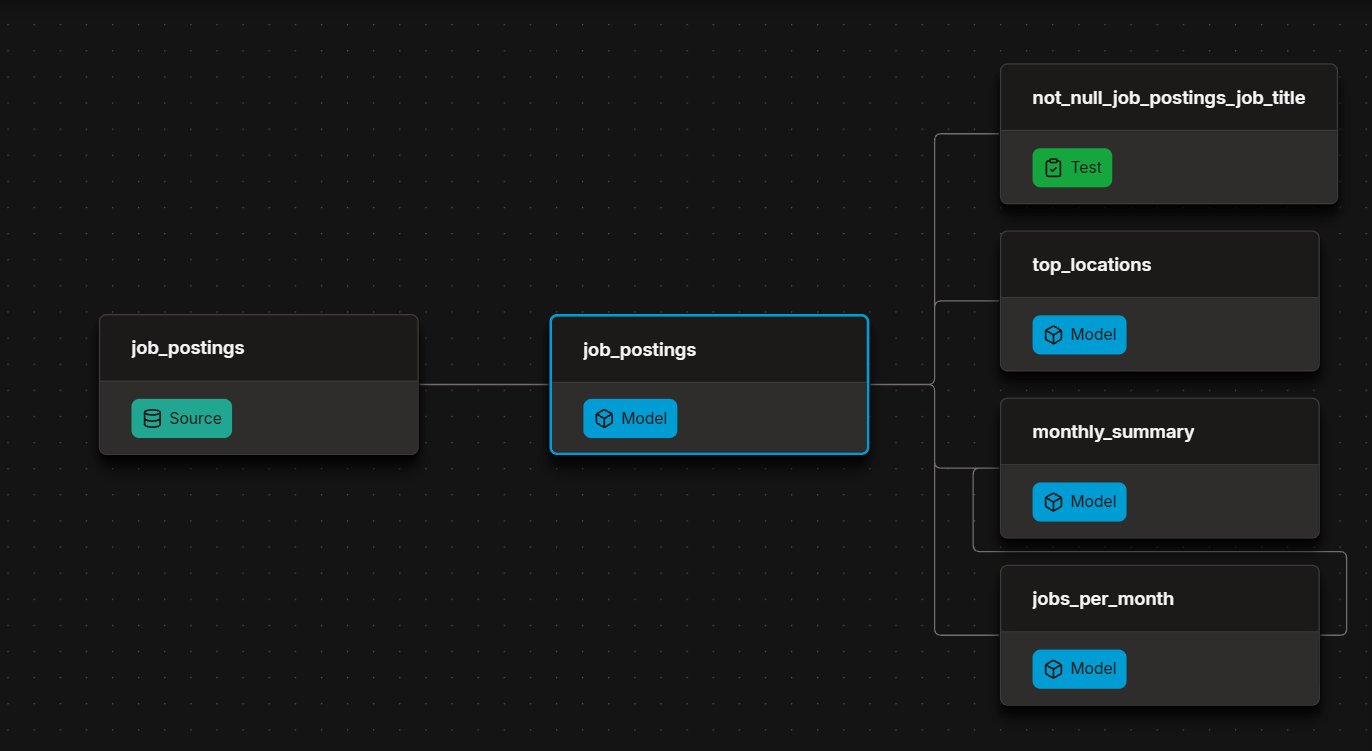
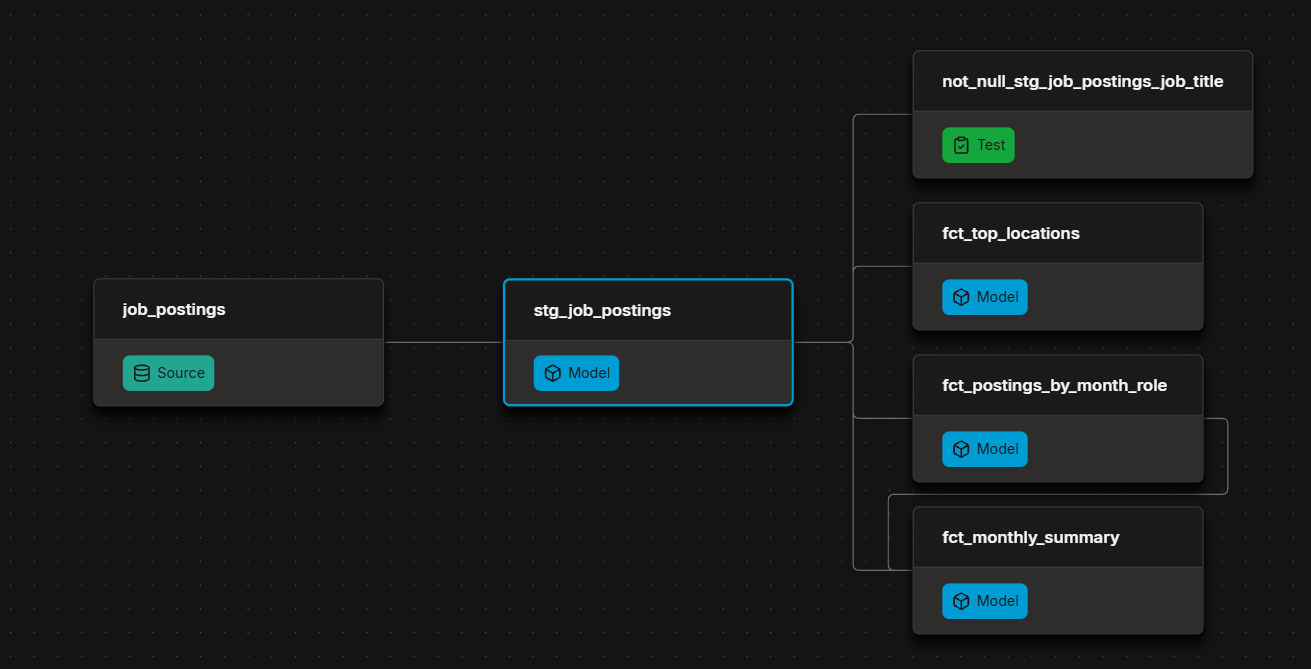
padronização do README e da imagem do pipeline

diff --git a/README.md b/README.md
@@ -1,5 +1,6 @@
 # Automated Job Posting Pipeline (v1) - dbt + DuckDB
 
+[![dbt build & publish](https://github.com/Jones51/dbt-duckdb-pipeline/actions/workflows/dbt_build.yml/badge.svg?branch=master)](https://github.com/Jones51/dbt-duckdb-pipeline/actions/workflows/dbt_build.yml)
 
 ![dbt pipeline diagram](img/dbt_pipeline.png)
 
@@ -13,8 +14,8 @@ A public dbt + DuckDB pipeline over ~692k real job postings, rebuilt and republi
 
 | What I Built | How I Implemented | Where to Look |
 | --- | --- | --- |
-| **dbt pipeline** | sources → cleaned model → insight marts | [`analytics/models/`](analytics/models/) |
-| **Data tests** | `unique` / `not_null` on every mart grain | [`schema.yml`](analytics/models/schema.yml) |
+| **dbt pipeline** | sources → `staging/` → `marts/` | [`analytics/models/`](analytics/models/) |
+| **Data tests** | grain test (`unique` or composite key) + `not_null` on every mart | [`_marts.yml`](analytics/models/marts/_marts.yml) |
 | **Hosted dbt docs** | lineage, descriptions, column tests | [Live docs site](https://jones51.github.io/dbt-duckdb-pipeline/) |
 | **Public CI** | build + test + publish on every push | [Actions workflow](https://github.com/Jones51/dbt-duckdb-pipeline/actions) |
 | **Environments** | local `dev` vs CI `prod` targets | [`ci/profiles.yml`](ci/profiles.yml) |
@@ -28,14 +29,21 @@ Raw postings flow through three dbt layers — declared sources → cleaned stag
 
 ![dbt dag diagram](img/dag_pipeline.png)
 
+| Layer | Model | Grain | Materialization |
+| --- | --- | --- | --- |
+| Staging | `stg_job_postings` | one row per posting (error rows dropped) | view |
+| Marts | `fct_postings_by_month_role` | one row per (month, role) | table |
+| Marts | `fct_monthly_summary` | one row per month (totals + remote share) | table |
+| Marts | `fct_top_locations` | one row per location (top 10) | table |
+
 And the dbt features doing the work:
 
 | dbt Feature | How I Used It |
 | --- | --- |
-| Declared sources (no hardcoded paths in SQL) | [`sources.yml`](analytics/models/sources.yml) + `source('raw', 'job_postings')` |
+| Declared sources (no hardcoded paths in SQL) | [`_sources.yml`](analytics/models/staging/_sources.yml) + `source('raw', 'job_postings')` |
 | Model dependencies | `ref()` everywhere downstream; dbt resolves order and parallelism |
-| Materializations | project default `table`; staging override to `view` |
-| Data tests | `unique` / `not_null` on mart grains in [`schema.yml`](analytics/models/schema.yml) |
+| Materializations | set per folder in [`dbt_project.yml`](analytics/dbt_project.yml): `staging/` → `view`, everything else → `table` |
+| Data tests | every mart has a grain test: `unique` on `month` / `job_location`, and a composite-key test on (`month`, `role`) via a custom generic test ([`unique_combination_of_columns`](analytics/tests/generic/unique_combination_of_columns.sql)); `not_null` on keys and counts |
 | Environments | local `dev` vs CI `prod` targets ([`ci/profiles.yml`](ci/profiles.yml)) |
 
 `dbt build` compiles SQL, materializes models, and fails the run if any test fails — same command locally and in CI.
@@ -48,7 +56,7 @@ GitHub Actions runs the whole pipeline — no laptop required: [`.github/workflo
 
 | Trigger | What happens |
 | --- | --- |
-| Push to `main` | Full rebuild |
+| Push to `master` | Full rebuild |
 | Weekly (Monday) | Scheduled rebuild — pipeline stays fresh |
 | Manual (`workflow_dispatch`) | Run button in the Actions UI |
 
@@ -75,8 +83,8 @@ ATTACH 'https://github.com/Jones51/dbt-duckdb-pipeline/releases/download/warehou
 USE jobs;
 SHOW TABLES;
 
-SELECT * FROM top_locations;
-SELECT * FROM monthly_summary;
+SELECT * FROM fct_top_locations;
+SELECT * FROM fct_monthly_summary;
 ```
 
 
@@ -124,7 +132,10 @@ uv run dbt docs serve
 ├── docs/                             # dbt docs site (GitHub Pages)
 ├── analytics/
 │   ├── dbt_project.yml
-│   └── models/                       # sources, staging, marts, schema.yml
+│   ├── models/
+│   │   ├── staging/                  # _sources.yml, stg_job_postings (views)
+│   │   └── marts/                    # fct_* models + tests (tables)
+│   └── tests/generic/                # custom composite-key test
 └── scripts/download_data.py          # fetch raw parquet before build
 ```
 
